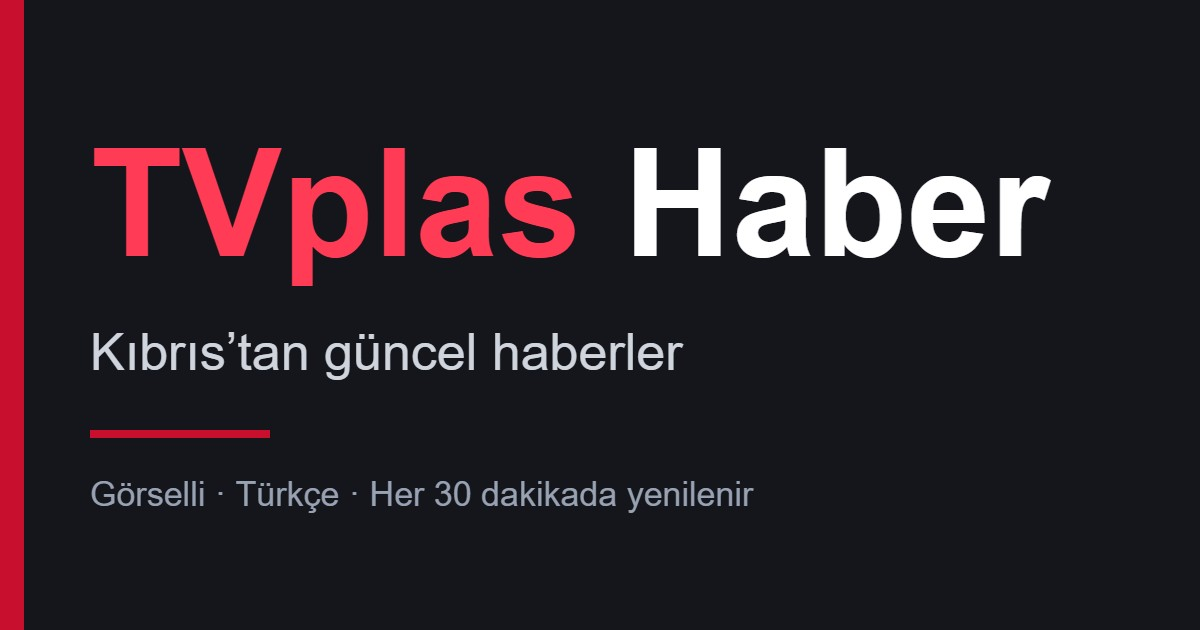
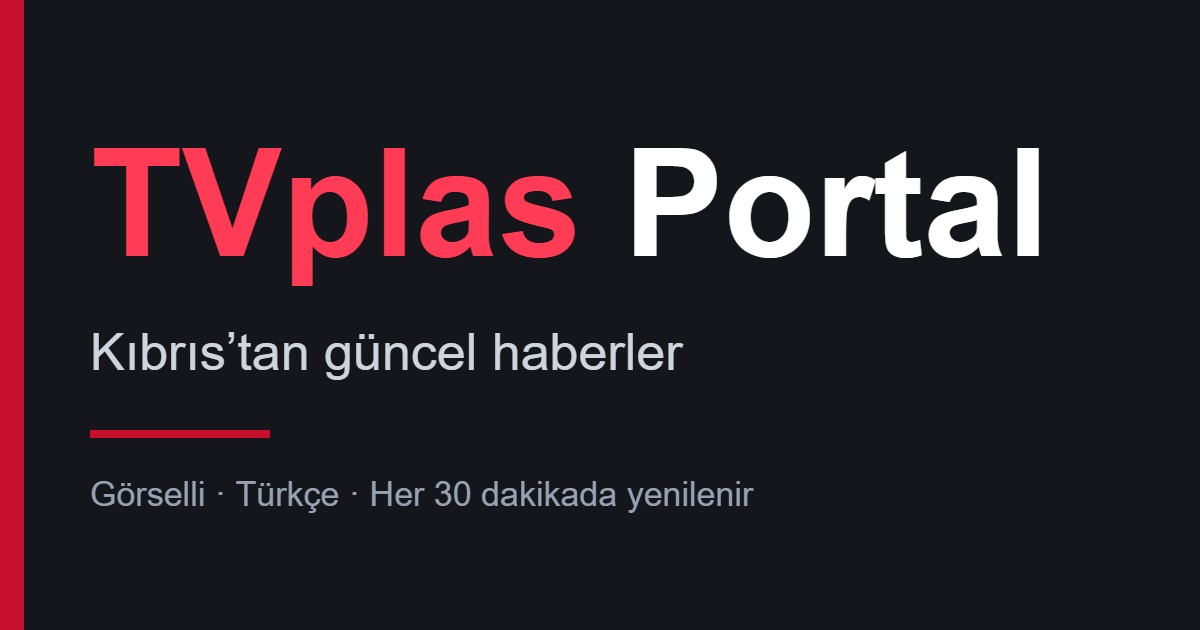
Add files via upload

Changed region(s): [[0.5242, 0.2111, 0.8942, 0.4222]]

diff --git a/index.html b/index.html
@@ -3,11 +3,11 @@
 <head>
 <meta charset="utf-8">
 <meta name="viewport" content="width=device-width,initial-scale=1">
-<title>TVplas Haber – Kıbrıs'tan güncel haberler</title>
+<title>TVplas Portal – Kıbrıs'tan güncel haberler</title>
 <meta name="description" content="Kıbrıs ile ilgili en güncel haberler, görselleriyle ve Türkçe olarak tek sayfada. Her 30 dakikada bir yenilenir.">
 <meta property="og:type" content="website">
 <meta property="og:site_name" content="TVplas">
-<meta property="og:title" content="TVplas Haber – Kıbrıs'tan güncel haberler">
+<meta property="og:title" content="TVplas Portal – Kıbrıs'tan güncel haberler">
 <meta property="og:description" content="Kıbrıs ile ilgili en güncel haberler, görselleriyle ve Türkçe olarak tek sayfada. Her 30 dakikada bir yenilenir.">
 <meta property="og:url" content="https://tvplas.github.io/haber/">
 <meta property="og:image" content="https://tvplas.github.io/haber/kapak.jpg">
@@ -44,7 +44,7 @@ footer{text-align:center;color:var(--soluk);font-size:13px;padding:0 16px 30px}
 </head>
 <body>
 <header>
-  <h1><span>TVplas</span> Haber</h1>
+  <h1><span>TVplas</span> Portal</h1>
   <div class="bilgi">Kıbrıs'tan güncel haberler · <span id="zaman">yükleniyor…</span></div>
   <div class="arac">
     <input id="ara" placeholder="Haberlerde ara (ör. Ercan, seçim, Mağusa)…">
